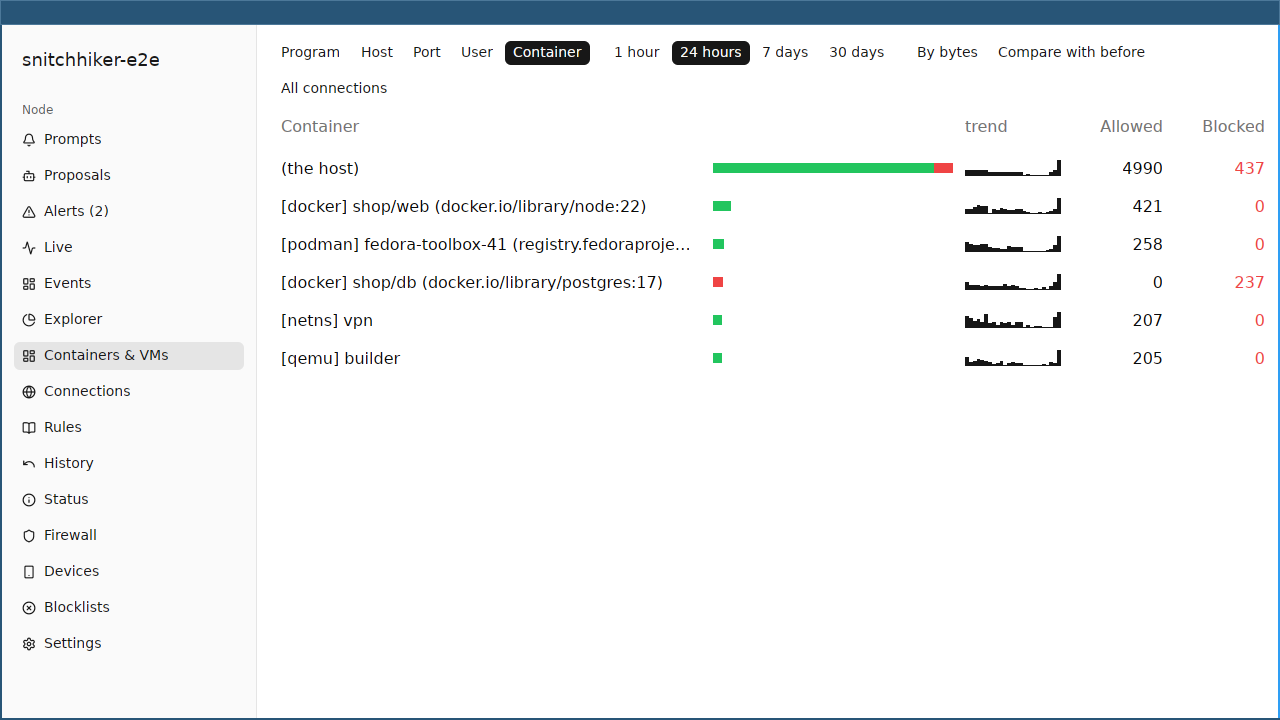
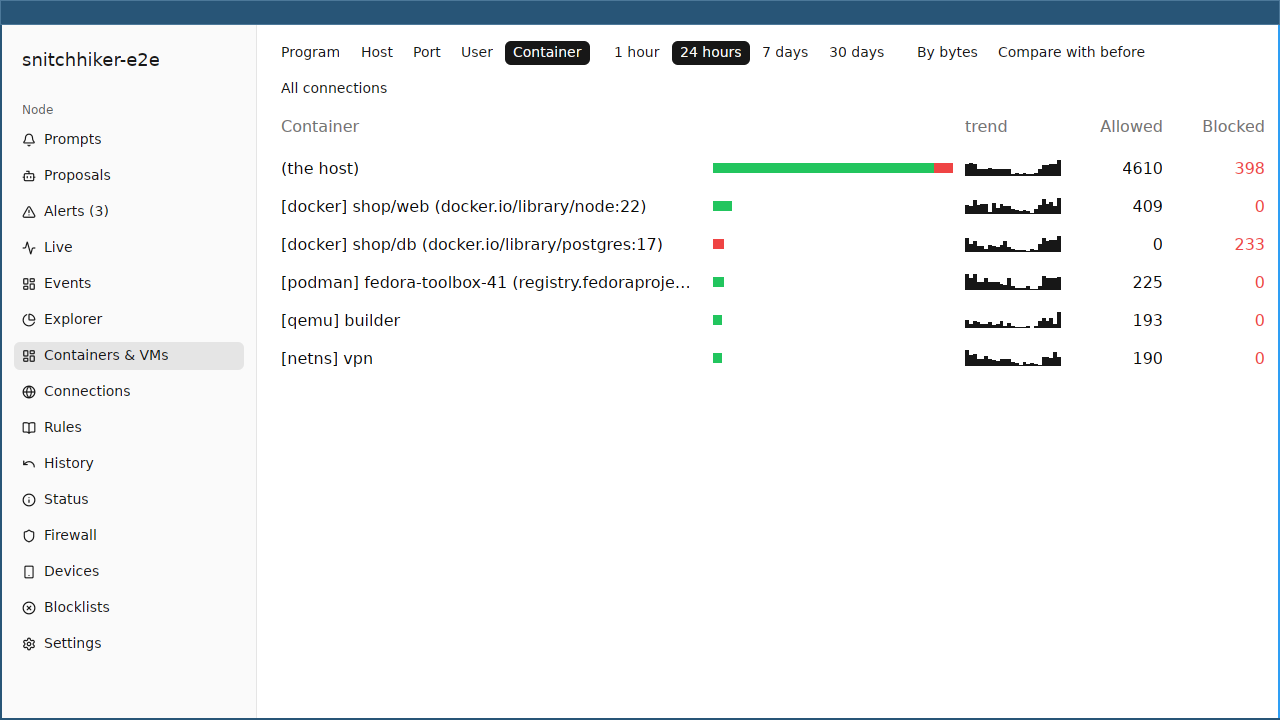
docs: the Android app's screenshots, and every desktop one regenerated
scripts/android-screenshots.sh (mise run screenshots:android) shoots every
screen of the real app in the emulator, at phone and tablet sizes, light and
dark, paired through a relay on loopback with the node VM over the same
synthetic history as the desktop's; the Android page shows some. Screens are
opened by their text, scrolling to it.

Both scripts now make their waiting prompt to a documentation address (a real
name resolved to a real one on the prompt), give the headless session a
keyboard so the prompt and proposal buttons are drawn armed, and create the
state directory a fresh VM doesn't have yet.

Claude-Session: https://claude.ai/code/session_01Wx31XDQ2mmh1TEejyx2oaC

diff --git a/docs/plan.md b/docs/plan.md
@@ -2210,8 +2210,9 @@ Early because the user's own coding agents benefit immediately. It needs the pro
       (ntfy) for a prompt with the app not running and answers it, and is told by push that the node went offline
       (with its reason) and is back. Pairing by code is covered by the VM scenarios (LAN), which the emulator's network
       can't reach.
-- [ ] **Docs:** [x] Android install page (APKs, F-Droid build, APK verification, wake-ups, lock). [ ] Roborazzi
-      screenshots of every screen at phone and tablet sizes, dark and light, through the same text check.
+- [x] **Docs:** [x] Android install page (APKs, F-Droid build, APK verification, wake-ups, lock). [x] Screenshots of
+      every screen at phone and tablet sizes, dark and light: the real app in the emulator, paired through a relay with
+      the node VM over the synthetic history (`scripts/android-screenshots.sh`), rather than Roborazzi renders.
 - [x] **Release**
   - [x] Signing in the `release` environment (an EC key kept by the user); both APKs on GitHub releases with the
         signed checksums; F-Droid metadata (fastlane, foss flavour). The F-Droid submission needs the public source
@@ -2257,7 +2258,7 @@ Early because the user's own coding agents benefit immediately. It needs the pro
   - [x] Context shown with the program (history, live, prompts) and a Container pivot in the Explorer; Containers & VMs
         page on desktop and Android; `snitchhiker contexts`.
 - [x] **Coexistence docs:** Docker, libvirt, Podman, portcullis, barbican.
-- [x] **Docs:** "Containers and VMs" guide with per-runtime notes and the coexistence page. [ ] Screenshots of the
+- [x] **Docs:** "Containers and VMs" guide with per-runtime notes and the coexistence page. [x] Screenshots of the
       Containers & VMs view.
 - [x] **Tests:** bridged Docker containers, rules by name/image/Compose service, a container's prompt and its answer,
       rootful and rootless Podman (inside the namespace, and its tamper), named namespaces, a VM on a bridge (a tap

diff --git a/site/src/content/docs/install/android.md b/site/src/content/docs/install/android.md
@@ -7,6 +7,19 @@ sidebar:
 
 The Android app does what the desktop app does, for every node you pair it with: prompts (answered from the notification, or several at once), rules by folder, the history, the Explorer, connections, the system firewall, alerts, settings, agent proposals and paired devices. It needs Android 10 or newer.
 
+## What it looks like
+
+The node list, then a node: its prompts, its history, the Explorer, and its Containers & VMs.
+
+![The node list: a node connected, with its alerts, and how the phone is woken](../../../assets/screenshots/android-nodes-phone-light.png)
+![A prompt: a connection waiting, the rules it could leave, and how long for](../../../assets/screenshots/android-prompts-phone-light.png)
+![The history: each connection, its program, destination and outcome](../../../assets/screenshots/android-events-phone-light.png)
+![The Explorer: programs by connections over the last day](../../../assets/screenshots/android-explorer-phone-light.png)
+
+On a tablet the same screens use the width:
+
+![Containers & VMs on a tablet: each container, VM and namespace, with its traffic over the day](../../../assets/screenshots/android-containers-vms-tablet-light.png)
+
 ## Getting it
 
 Each release has two builds, signed with the same key:
